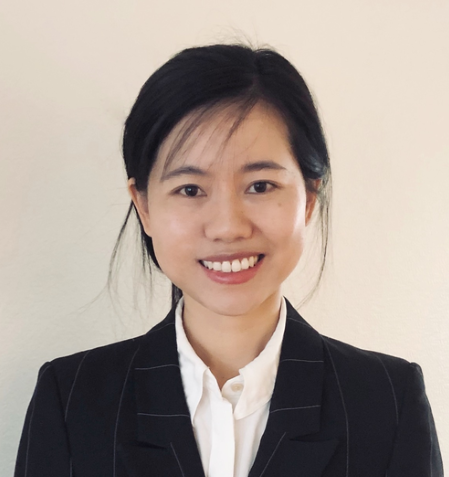
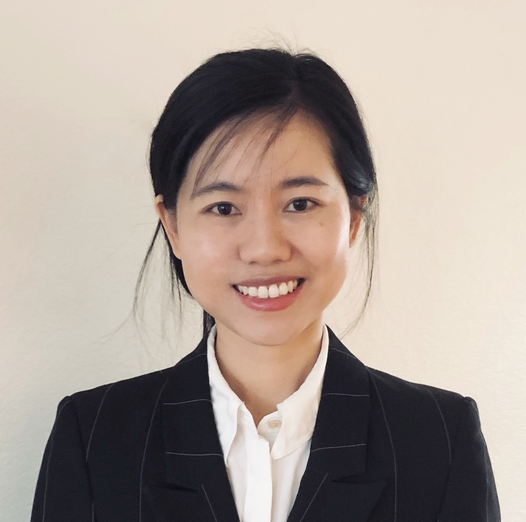
update header image

diff --git a/_layouts/about.html b/_layouts/about.html
@@ -7,9 +7,9 @@ layout: default
   <header class="post-header">
     <h1 class="post-title">
      {% if site.title == blank %}{{ site.title }}{% else %}<span class="font-weight-bold">{{ site.first_name }}</span> {{ site.middle_name }}  {{ site.last_name }}{% endif %}
+     <img src="../assets/img/home_image.jpg" height="250" width="800">
     </h1>
      <p class="desc">{{ page.description }}</p>
-     <img src="../assets/img/home_image.jpg" height="150">
   </header>
 
   <article>

diff --git a/_pages/about.md b/_pages/about.md
@@ -22,6 +22,9 @@ selected_papers: false # includes a list of papers marked as "selected={true}"
 
 I am working as a project scientist at National Center for Atmospheric Research (NCAR) within the Climate and Global Dynamics(CGD) Laboratory. Before joining NCAR, I did my postdoctoral research at the University of California, Los Angeles in [Alex Hall's group](https://dept.atmos.ucla.edu/alexhall/home) and at the University of California, Santa Barbara in [Samantha Stevenson's group](https://www.samanthalstevenson.com/). I received my PhD in Atmospheric Science from the University of California, Davis in [Paul Ullrich's group](https://climate.ucdavis.edu/). My research focuses on understanding the response of atmospheric dynamics to external climate forcing, the associated changes to the behavior of extreme events, and how to build credible climate projections. I am also interested in how extreme weather events would affect hydrological cycle and ecosystems, and the integration of machine learning techniques into climate sciences. 
 
+
+
+
 # Recent news
 
 **Dec 1, 2022:** The Altmetric Attention Score of My <a href='https://www.science.org/doi/10.1126/sciadv.abq0995'>Science Advance paper </a> is ranked at 21th out of 9,849 Scienve Advances research outputs according to <a href='https://scienceadvances.altmetric.com/details/134020757#score'>Altmetric</a>.
